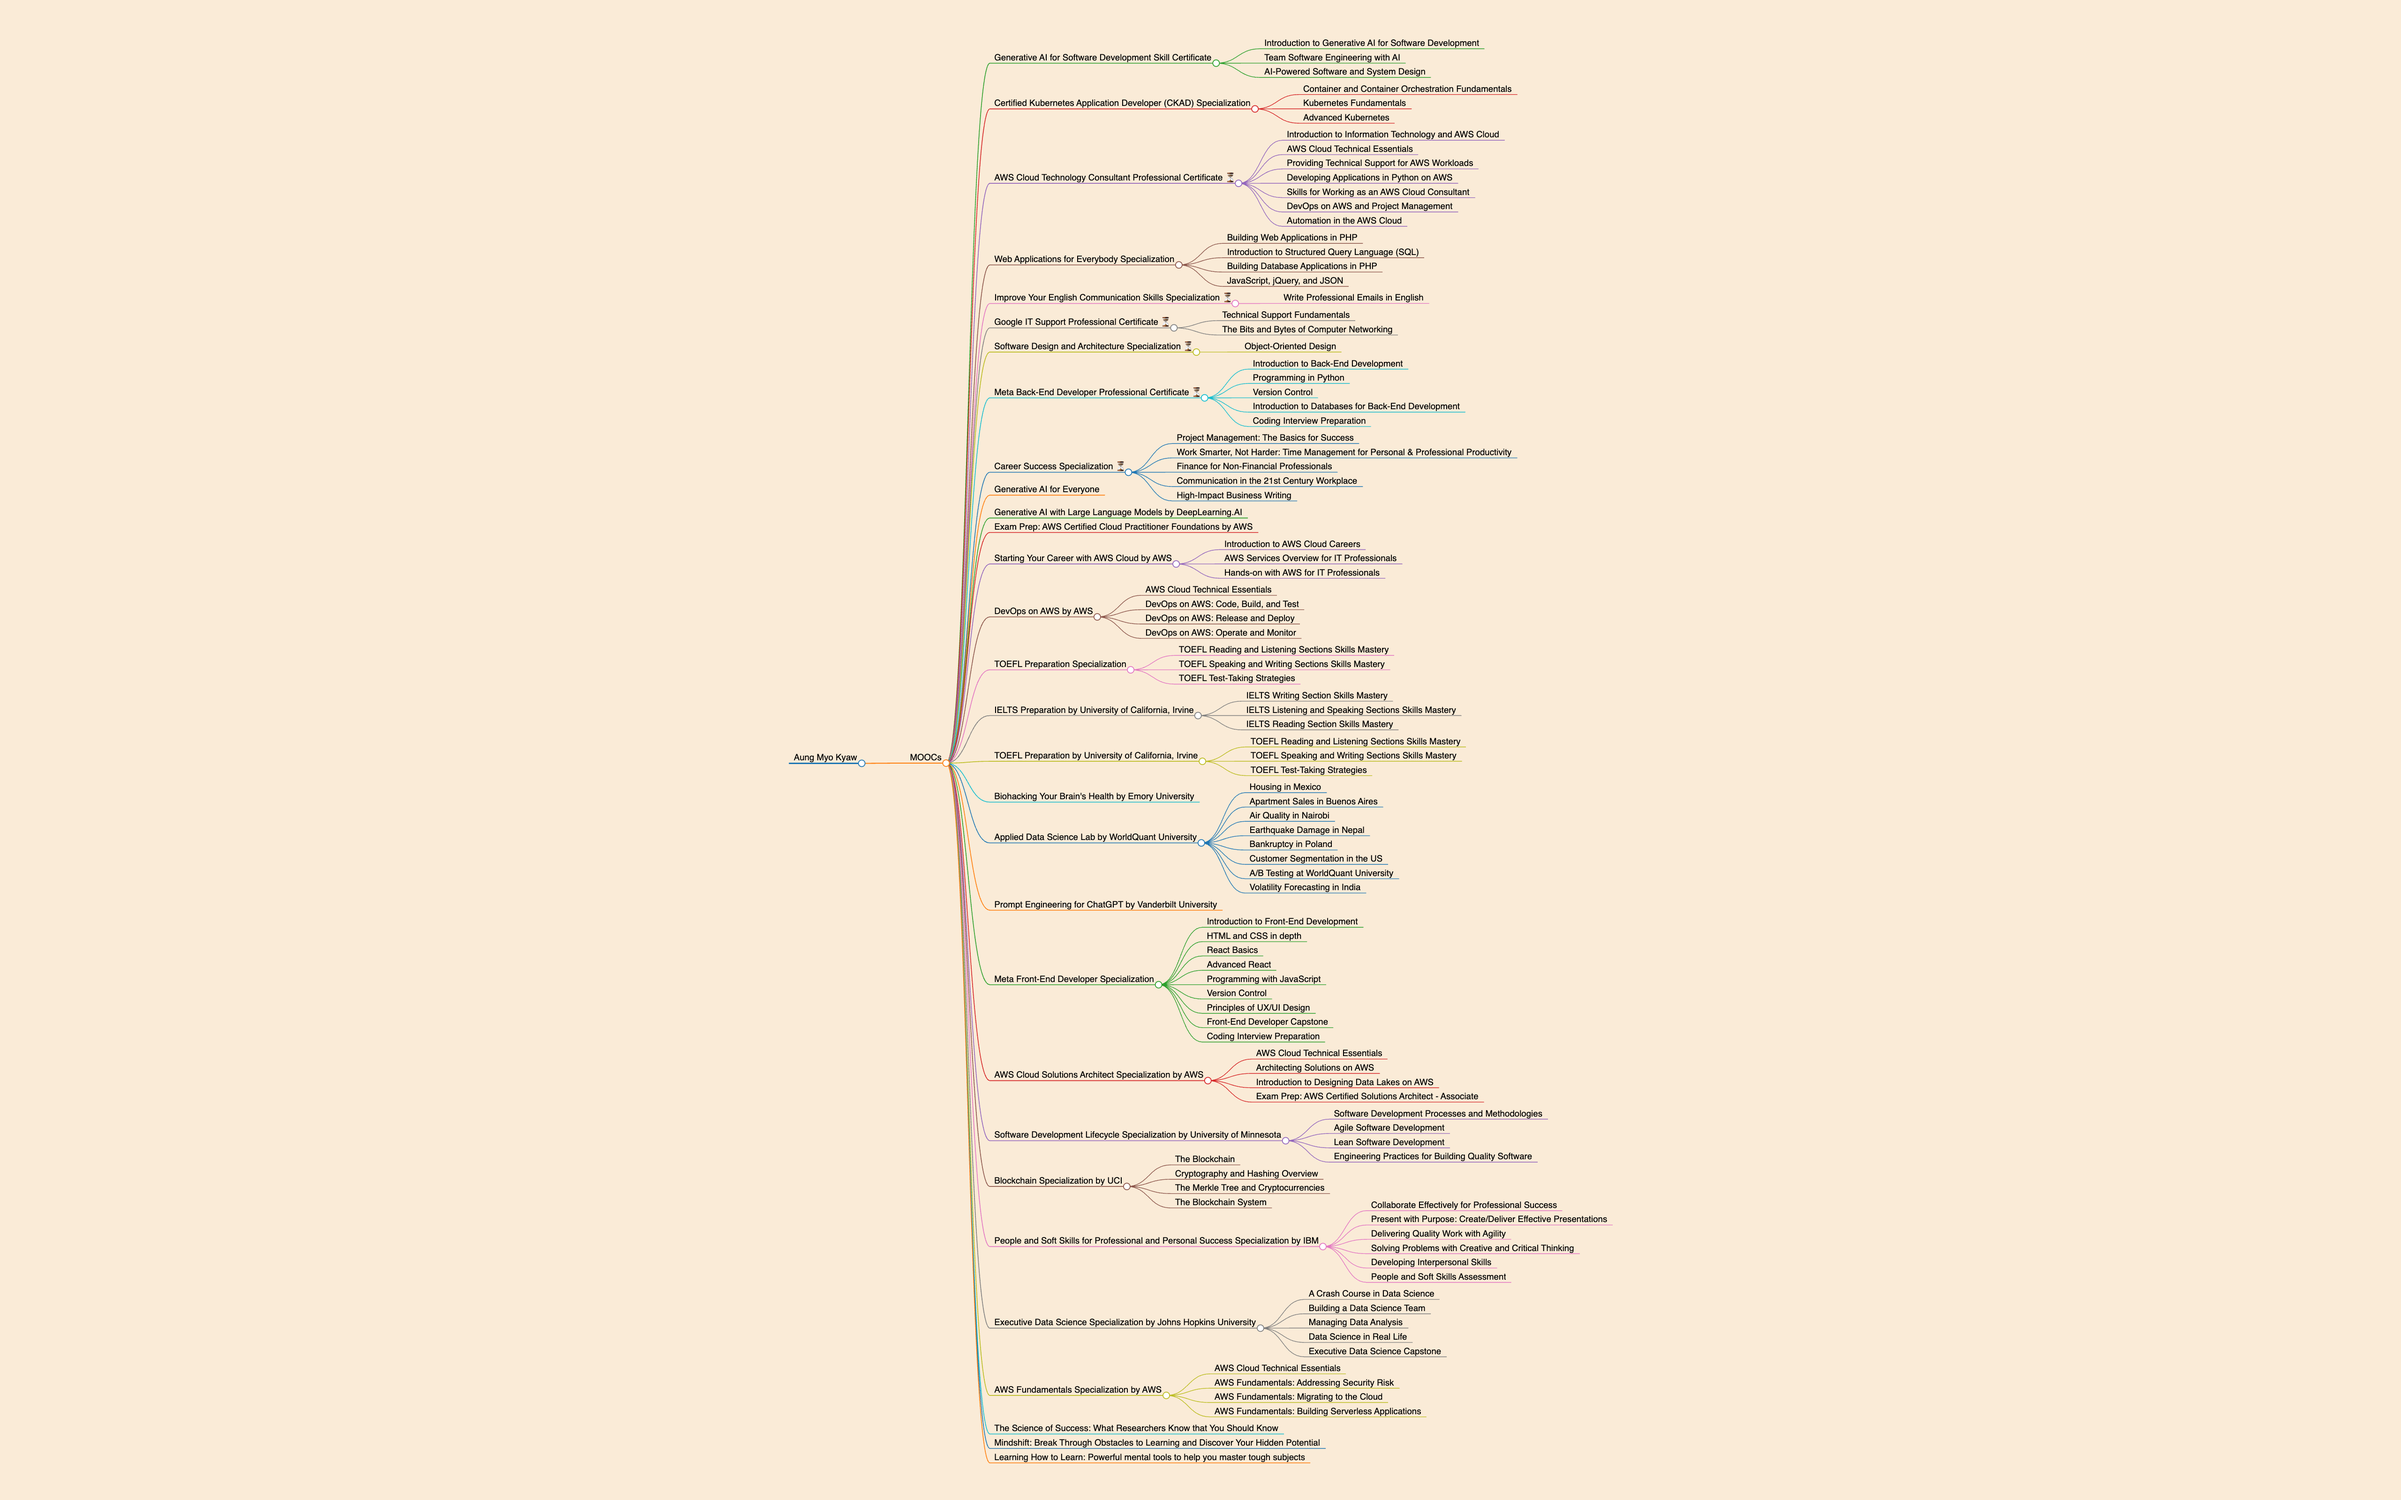
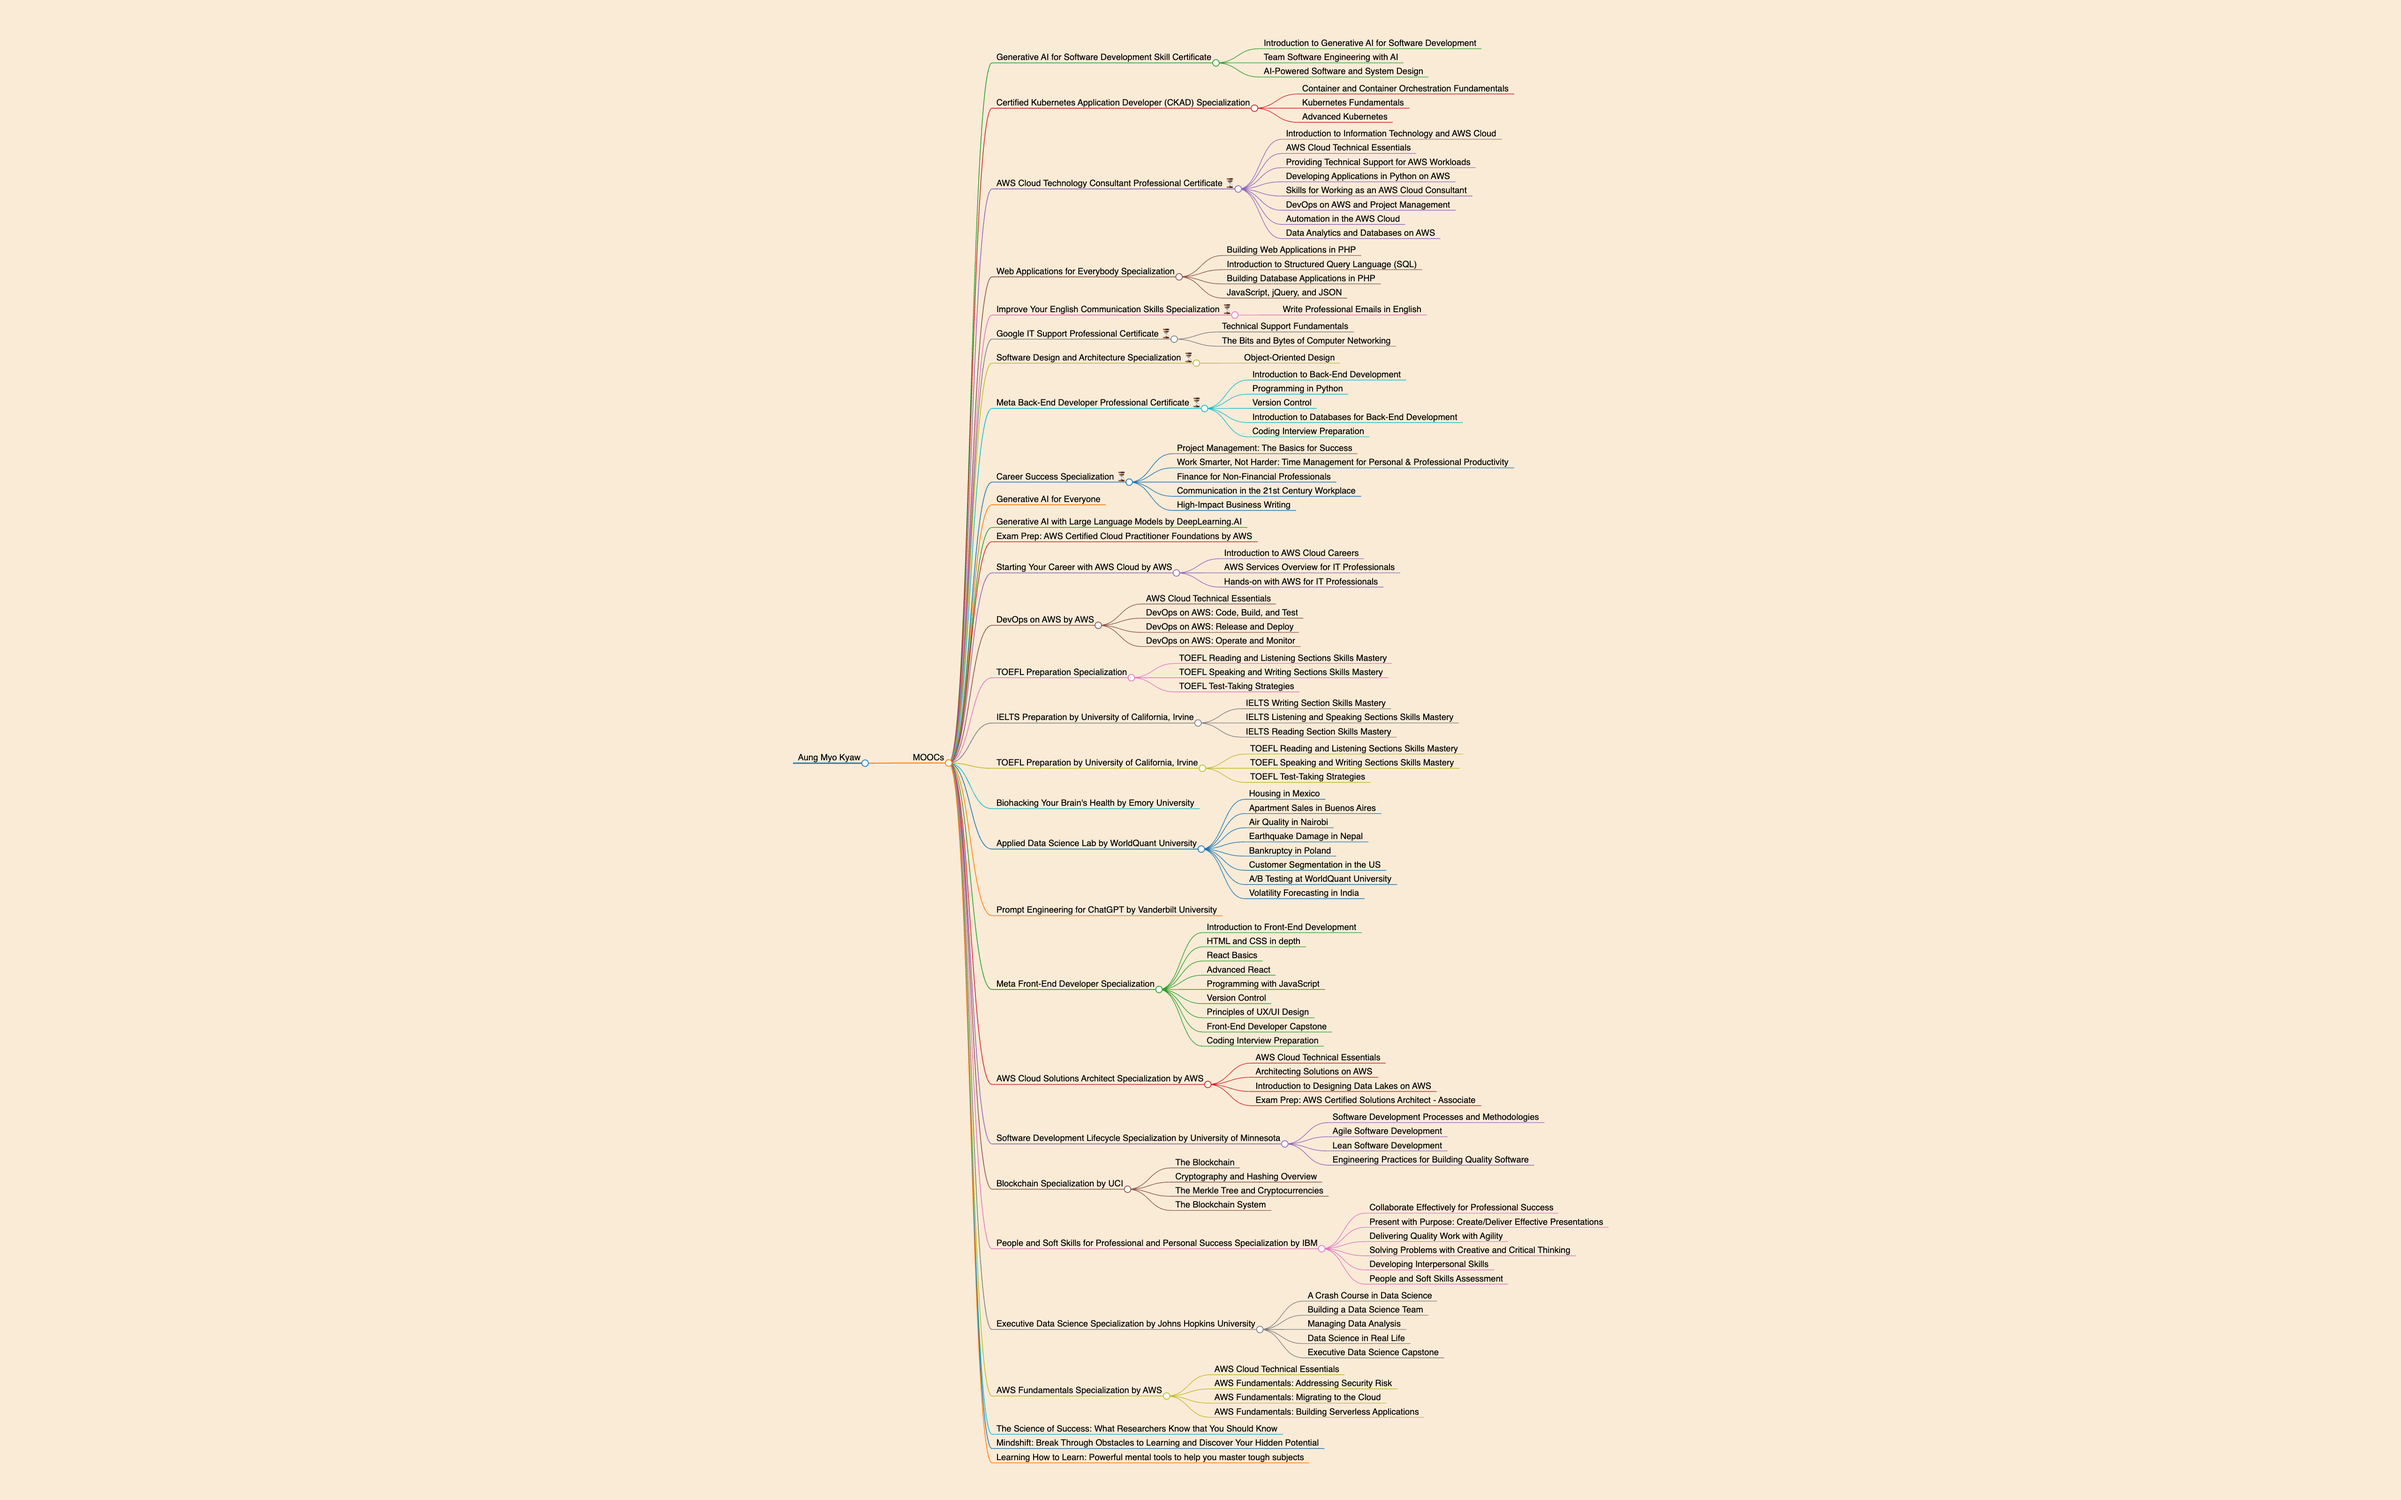
feat: update complete course

Changed region(s): [[0.375, 0.0312, 0.6562, 0.9688]]

diff --git a/README.md b/README.md
@@ -44,6 +44,7 @@ markmap:
 - [Skills for Working as an AWS Cloud Consultant](https://www.coursera.org/account/accomplishments/certificate/QJ46WQ4D80BP)
 - [DevOps on AWS and Project Management](https://www.coursera.org/account/accomplishments/certificate/OU3GDACIIWAC)
 - [Automation in the AWS Cloud](https://www.coursera.org/account/accomplishments/certificate/M5VHGXP9SOH0)
+- [Data Analytics and Databases on AWS](https://www.coursera.org/account/accomplishments/certificate/3S17976LJCFD)
 
 ### [Web Applications for Everybody Specialization](https://www.coursera.org/account/accomplishments/specialization/certificate/RHZNGIL8I4FA)
 
